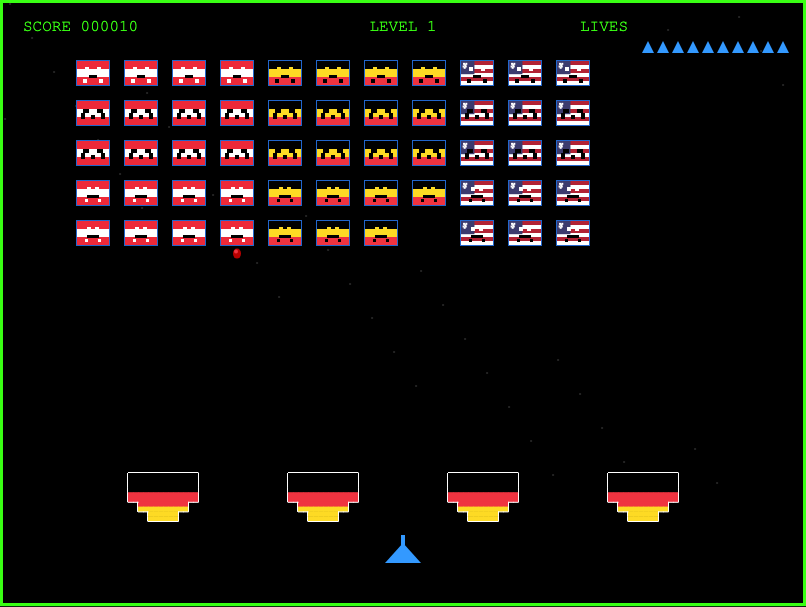
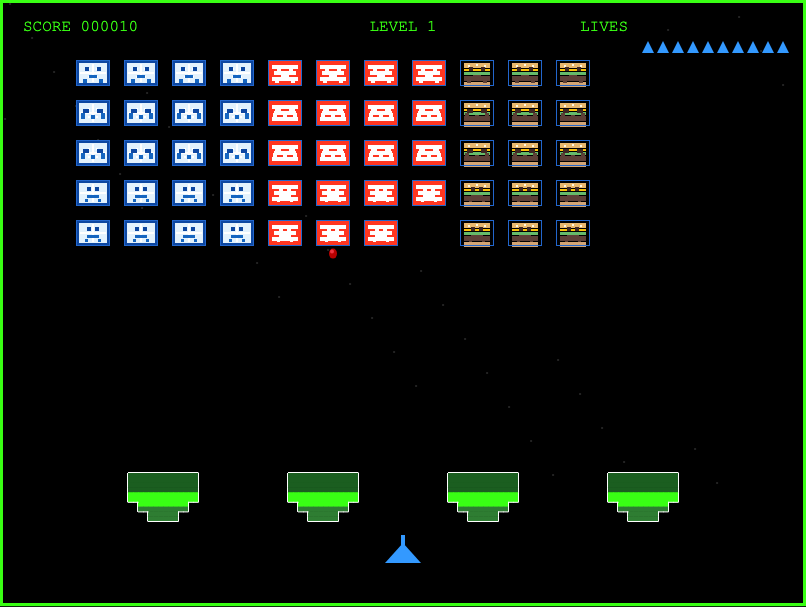
Replace flag invaders with snowflake, Databricks, and hamburger sprites.
Refresh README screenshots and docs for arcade-v21-snow-dbx-burger build tag.

diff --git a/index.html b/index.html
@@ -7,8 +7,8 @@
   <meta name="apple-mobile-web-app-title" content="Space Invaders">
   <meta name="apple-mobile-web-app-status-bar-style" content="black-translucent">
   <meta name="mobile-web-app-capable" content="yes">
-  <title>Space Invaders — Flag Edition</title>
-  <!-- build: flag-edition-v20-init-order-fix -->
+  <title>Space Invaders — Arcade Edition</title>
+  <!-- build: arcade-v21-snow-dbx-burger -->
   <!-- CDP ingest example (localStorage si-nifi-listen-url): http://projtriton.inbound.dfx.hahgzjod.a465-9q4k.cloudera.site:9088/space-invaders (9088 is HTTP, not HTTPS) -->
   <style>
     * { margin: 0; padding: 0; box-sizing: border-box; }
@@ -216,7 +216,7 @@
     let frame = 0;
 
     // --- Event streaming (console mock + NiFi ListenHTTP POST + optional legacy TCP) ---
-    const GAME_VERSION = 'flag-edition-v20-init-order-fix';
+    const GAME_VERSION = 'arcade-v21-snow-dbx-burger';
     const TCP_SOCKET_SUPPORTED = 'TCPSocket' in globalThis;
     const DEFAULT_NIFI_LISTEN_URL = 'http://127.0.0.1:9998/space-invaders';
 
@@ -795,17 +795,14 @@
     let invaderShootTimer = 0;
     const INVADER_ROWS = 5;
     const INVADER_COLS = 11;
-    const BELGIUM = { black: '#000000', yellow: '#FDDA24', red: '#EF3340' };
-    const AUSTRIA = { red: '#ED2939', white: '#FFFFFF' };
-    const US = { red: '#B22234', white: '#FFFFFF', blue: '#3C3B6E' };
     const PLAYER_BLUE = '#3399FF';
     const INVADER_OUTLINE = '#2266CC';
-    const FLAG_TYPES = ['austria', 'belgium', 'us'];
+    const SYMBOL_TYPES = ['snowflake', 'databricks', 'hamburger'];
 
-    function getInvaderFlag(row, col) {
-      if (col < 4) return 'austria';
-      if (col < 8) return 'belgium';
-      return 'us';
+    function getInvaderSymbol(row, col) {
+      if (col < 4) return 'snowflake';
+      if (col < 8) return 'databricks';
+      return 'hamburger';
     }
     const INVADER_TYPES = [
       { points: 30, w: 32, h: 24 },
@@ -866,7 +863,7 @@
             row,
             col,
             type,
-            flag: getInvaderFlag(row, col),
+            symbol: getInvaderSymbol(row, col),
             alive: true,
             animFrame: 0
           });
@@ -919,60 +916,83 @@
       beep(1100, 0.2);
     }
 
-    function drawHorizontalStripes(x, y, w, h, colors) {
-      const top = y - h / 2;
-      const stripeH = h / colors.length;
-      colors.forEach((color, i) => {
-        ctx.fillStyle = color;
-        ctx.fillRect(x - w / 2, top + i * stripeH, w, stripeH + 0.5);
-      });
-    }
-
-    function drawAustriaFlag(x, y, w, h) {
-      drawHorizontalStripes(x, y, w, h, [AUSTRIA.red, AUSTRIA.white, AUSTRIA.red]);
-    }
-
-    function drawBelgiumFlag(x, y, w, h) {
-      drawHorizontalStripes(x, y, w, h, [BELGIUM.black, BELGIUM.yellow, BELGIUM.red]);
-    }
-
-    function drawUSFlag(x, y, w, h) {
+    function drawSnowflakeSymbol(x, y, w, h) {
       const left = x - w / 2;
       const top = y - h / 2;
-      const stripeCount = 6;
-      const stripeH = h / stripeCount;
-      for (let i = 0; i < stripeCount; i++) {
-        ctx.fillStyle = i % 2 === 0 ? US.red : US.white;
-        ctx.fillRect(left, top + i * stripeH, w, stripeH + 0.5);
-      }
-      const cantonW = w * 0.42;
-      const cantonH = h * 0.55;
-      ctx.fillStyle = US.blue;
-      ctx.fillRect(left, top, cantonW, cantonH);
-      ctx.fillStyle = US.white;
-      [[0.15, 0.14], [0.32, 0.14], [0.24, 0.24], [0.12, 0.34], [0.28, 0.34], [0.20, 0.44]].forEach(([sx, sy]) => {
-        ctx.fillRect(left + cantonW * sx, top + cantonH * sy, 2, 2);
-      });
+      ctx.fillStyle = '#0D47A1';
+      ctx.fillRect(left, top, w, h);
+      ctx.fillStyle = '#E3F2FD';
+      ctx.fillRect(left + 2, top + 2, w - 4, h - 4);
+      ctx.fillStyle = '#FFFFFF';
+      const cx = Math.floor(x);
+      const cy = Math.floor(y);
+      ctx.fillRect(cx - 1, top + 3, 2, h - 6);
+      ctx.fillRect(left + 3, cy - 1, w - 6, 2);
+      ctx.fillRect(cx - 5, cy - 5, 2, 2);
+      ctx.fillRect(cx + 3, cy - 5, 2, 2);
+      ctx.fillRect(cx - 5, cy + 3, 2, 2);
+      ctx.fillRect(cx + 3, cy + 3, 2, 2);
+      ctx.fillRect(cx - 7, cy - 1, 2, 2);
+      ctx.fillRect(cx + 5, cy - 1, 2, 2);
+      ctx.fillRect(cx - 1, cy - 7, 2, 2);
+      ctx.fillRect(cx - 1, cy + 5, 2, 2);
     }
 
-    function drawInvaderFlag(inv) {
-      const { x, y, w, h, flag } = inv;
-      if (flag === 'austria') drawAustriaFlag(x, y, w, h);
-      else if (flag === 'belgium') drawBelgiumFlag(x, y, w, h);
-      else drawUSFlag(x, y, w, h);
+    function drawDatabricksSymbol(x, y, w, h) {
+      const left = x - w / 2;
+      const top = y - h / 2;
+      ctx.fillStyle = '#FF3621';
+      ctx.fillRect(left, top, w, h);
+      ctx.fillStyle = '#FFFFFF';
+      const brickH = 4;
+      const gap = 2;
+      for (let i = 0; i < 3; i++) {
+        const inset = i === 1 ? 5 : 3;
+        const by = top + 4 + i * (brickH + gap);
+        ctx.fillRect(left + inset, by, w - inset * 2, brickH);
+      }
+    }
+
+    function drawHamburgerSymbol(x, y, w, h) {
+      const left = x - w / 2;
+      const top = y - h / 2;
+      const innerW = w - 6;
+      const ix = left + 3;
+      let yy = top + 2;
+      const layer = (color, lh) => {
+        ctx.fillStyle = color;
+        ctx.fillRect(ix, yy, innerW, lh);
+        yy += lh + 1;
+      };
+      layer('#E8B86D', 5);
+      ctx.fillStyle = '#FFF8E1';
+      ctx.fillRect(ix + 4, yy - 4, 2, 2);
+      ctx.fillRect(ix + 12, yy - 5, 2, 2);
+      ctx.fillRect(ix + 20, yy - 4, 2, 2);
+      layer('#FFC107', 2);
+      layer('#66BB6A', 3);
+      layer('#5D4037', 5);
+      layer('#D4A574', 5);
+    }
+
+    function drawInvaderSymbolBody(inv) {
+      const { x, y, w, h, symbol } = inv;
+      if (symbol === 'snowflake') drawSnowflakeSymbol(x, y, w, h);
+      else if (symbol === 'databricks') drawDatabricksSymbol(x, y, w, h);
+      else drawHamburgerSymbol(x, y, w, h);
     }
 
     function drawInvaderFace(inv, anim) {
       const cx = inv.x;
       const cy = inv.y;
       const ink = (localY) => {
-        if (inv.flag === 'austria') {
-          return localY >= -4 && localY < 4 ? '#000' : AUSTRIA.white;
+        if (inv.symbol === 'snowflake') {
+          return localY < -2 ? '#0D47A1' : '#1565C0';
         }
-        if (inv.flag === 'belgium') {
-          return localY < -4 ? BELGIUM.yellow : '#000';
+        if (inv.symbol === 'databricks') {
+          return '#FFFFFF';
         }
-        return localY < -4 ? US.white : '#000';
+        return localY < -2 ? '#3E2723' : '#5D4037';
       };
       const px = (dx, dy, pw, ph) => {
         ctx.fillStyle = ink(dy);
@@ -999,7 +1019,7 @@
     function drawInvader(inv, frame) {
       const { x, y, w, h } = inv;
       const anim = Math.floor(frame / 20) % 2;
-      drawInvaderFlag(inv);
+      drawInvaderSymbolBody(inv);
       drawInvaderFace(inv, anim);
       ctx.strokeStyle = INVADER_OUTLINE;
       ctx.lineWidth = 1;
@@ -1020,7 +1040,7 @@
 
     function bunkerPixelColor(row, totalRows) {
       const band = Math.min(2, Math.floor(row / (totalRows / 3)));
-      return [BELGIUM.black, BELGIUM.red, BELGIUM.yellow][band];
+      return ['#1b5e20', '#39ff14', '#2e7d32'][band];
     }
 
     function drawBunker(bunker) {
@@ -1129,7 +1149,7 @@
       ctx.font = '18px "Courier New", monospace';
       ctx.fillText('DEFEND EARTH FROM THE ALIEN HORDE', W/2, H/2 - 30);
       ctx.font = '15px "Courier New", monospace';
-      ctx.fillText('INVADERS: AUSTRIA  ·  BELGIUM  ·  USA  (' + GAME_VERSION + ')', W/2, H/2 + 2);
+      ctx.fillText('INVADERS: SNOWFLAKE  ·  DATABRICKS  ·  HAMBURGER  (' + GAME_VERSION + ')', W/2, H/2 + 2);
       ctx.font = '18px "Courier New", monospace';
       if (isTouchDevice) {
         ctx.fillText('◀ ▶ BUTTONS  —  MOVE SHIP', W/2, H/2 + 20);
@@ -1317,7 +1337,8 @@
             publishGameEvent('invader.killed', {
               invaderRow: inv.row,
               invaderCol: inv.col,
-              flag: inv.flag,
+              symbol: inv.symbol,
+              flag: inv.symbol,
               pointsAwarded: inv.type.points,
               position: { x: inv.x, y: inv.y },
               remainingInvaders: getAliveInvaders().length

diff --git a/simulate-players-nifi.py b/simulate-players-nifi.py
@@ -28,7 +28,7 @@ from dataclasses import dataclass, field
 from typing import Any
 from urllib import error, request
 
-GAME_VERSION = "flag-edition-v20-init-order-fix"
+GAME_VERSION = "arcade-v21-snow-dbx-burger"
 DEFAULT_NIFI_URL = (
     "http://projtriton.inbound.dfx.hahgzjod.a465-9q4k.cloudera.site:9088/space-invaders"
 )
@@ -319,7 +319,8 @@ def sim_invader_kill(session: GameSession) -> list[dict[str, Any]]:
         ("invader.killed", {
             "invaderRow": row,
             "invaderCol": col,
-            "flag": random.choice(("AT", "BE", "US")),
+            "symbol": random.choice(("snowflake", "databricks", "hamburger")),
+            "flag": random.choice(("snowflake", "databricks", "hamburger")),
             "pointsAwarded": pts,
             "position": {"x": random.randint(40, 760), "y": random.randint(80, 400)},
             "remainingInvaders": session.remaining_invaders,

diff --git a/README.md b/README.md
@@ -1,7 +1,7 @@
-# Space Invaders — Flag Edition
+# Space Invaders — Arcade Edition
 
 <p align="center">
-  <img src="docs/images/start-screen.png" alt="Space Invaders Flag Edition — start screen" width="720">
+  <img src="docs/images/start-screen.png" alt="Space Invaders Arcade Edition — start screen" width="720">
 </p>
 
 <p align="center">
@@ -9,7 +9,7 @@
 </p>
 
 <p align="center">
-  Invaders wear <strong>Austria</strong>, <strong>Belgium</strong>, and <strong>US</strong> flag pixels; you fire pixel-art <strong>french fries</strong>; they shoot <strong>ketchup</strong>. Green CRT vibes included.
+  Invaders are pixel <strong>snowflakes</strong>, <strong>Databricks</strong> bricks, and <strong>hamburgers</strong>; you fire pixel-art <strong>french fries</strong>; they shoot <strong>ketchup</strong>. Green CRT vibes included.
 </p>
 
 ---
@@ -44,7 +44,7 @@ Then open [http://localhost:8080/index.html](http://localhost:8080/index.html).
 
 Mac setup notes: [sync-local-mac.md](./sync-local-mac.md)
 
-**Build tag:** `flag-edition-v20-init-order-fix` (shown on the start screen).
+**Build tag:** `arcade-v21-snow-dbx-burger` (shown on the start screen).
 
 ---
 

diff --git a/sync-local-mac.md b/sync-local-mac.md
@@ -7,7 +7,7 @@ This repository is the **standalone** Space Invaders game and docs. You do not n
 ```bash
 git clone git@github.com:YOUR_USER/space-invaders-arcade.git
 cd space-invaders-arcade
-grep "flag-edition-v15-nifi-listenhttp" index.html   # sanity check
+grep "arcade-v21-snow-dbx-burger" index.html   # sanity check
 python3 -m http.server 8080
 ```
 

diff --git a/enable-nifi-events.md b/enable-nifi-events.md
@@ -68,7 +68,7 @@ NiFi: FlowFiles on **ListenHTTP** (batched up to 50 events every 500 ms).
   "session_id": "…",
   "player_id": "anon-…",
   "player_name": "PILOT",
-  "game_version": "flag-edition-v20-init-order-fix",
+  "game_version": "arcade-v21-snow-dbx-burger",
   "level": 1,
   "frame": 420,
   "data_json": "{\"pointsAwarded\":10}"

diff --git a/kafka-streaming-proposal.md b/kafka-streaming-proposal.md
@@ -74,7 +74,8 @@ All events share a common envelope. Per-event payloads live in `data`.
   "data": {
     "invaderRow": 0,
     "invaderCol": 5,
-    "flag": "belgium",
+    "symbol": "databricks",
+    "flag": "databricks",
     "pointsAwarded": 30,
     "position": { "x": 320, "y": 70 },
     "remainingInvaders": 54
